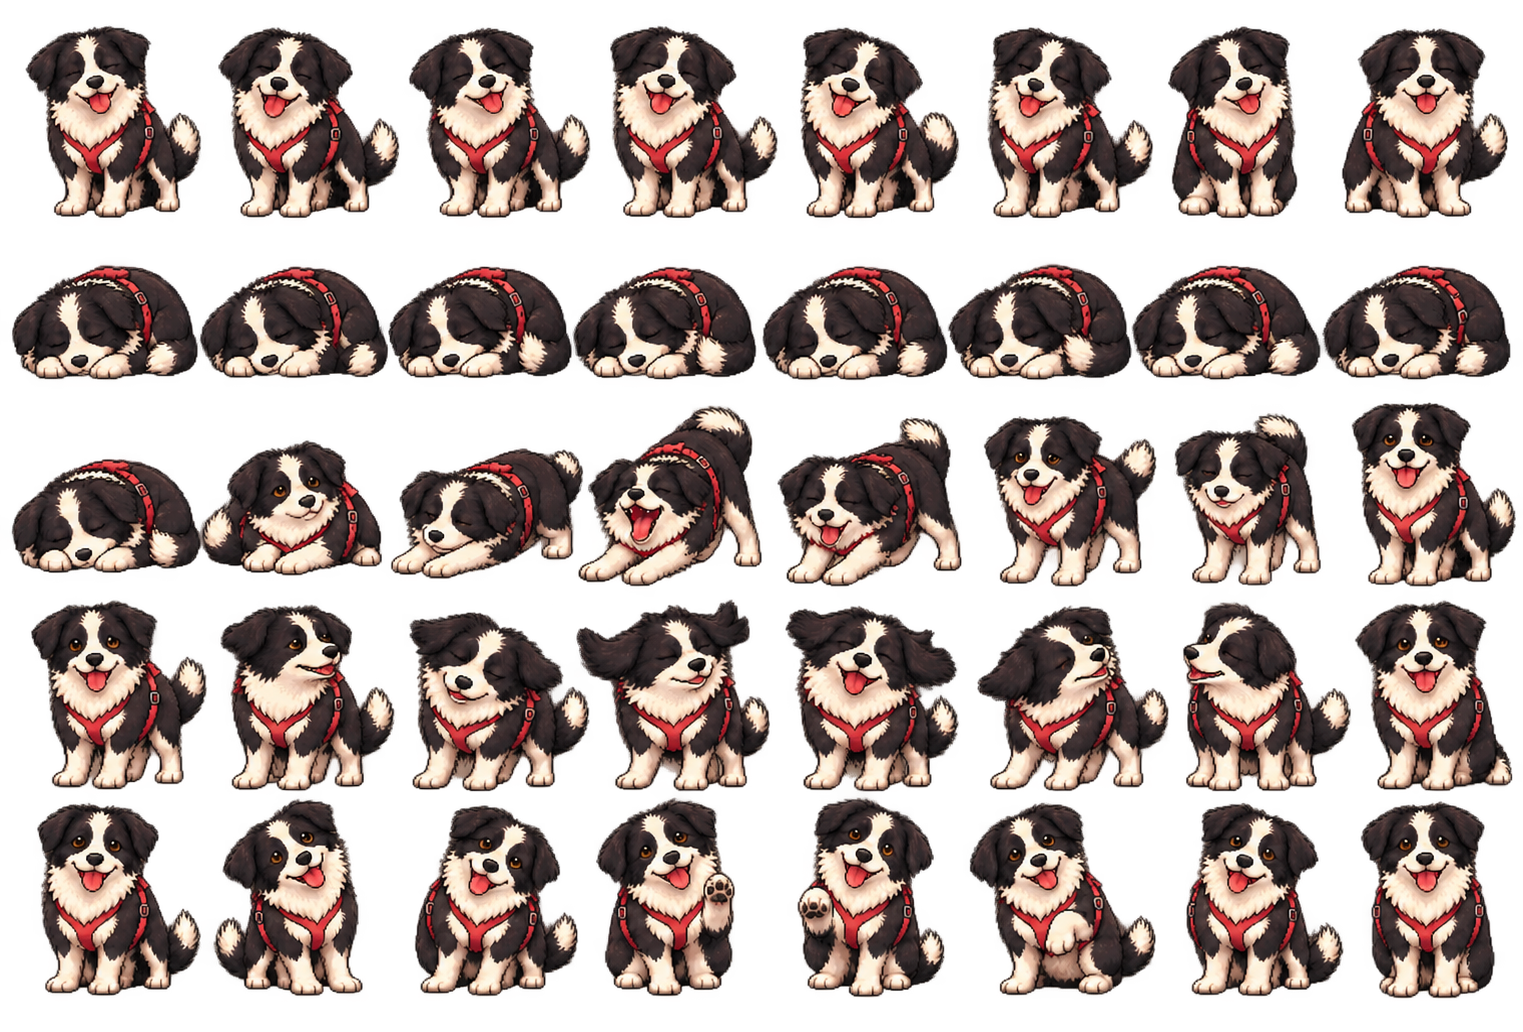
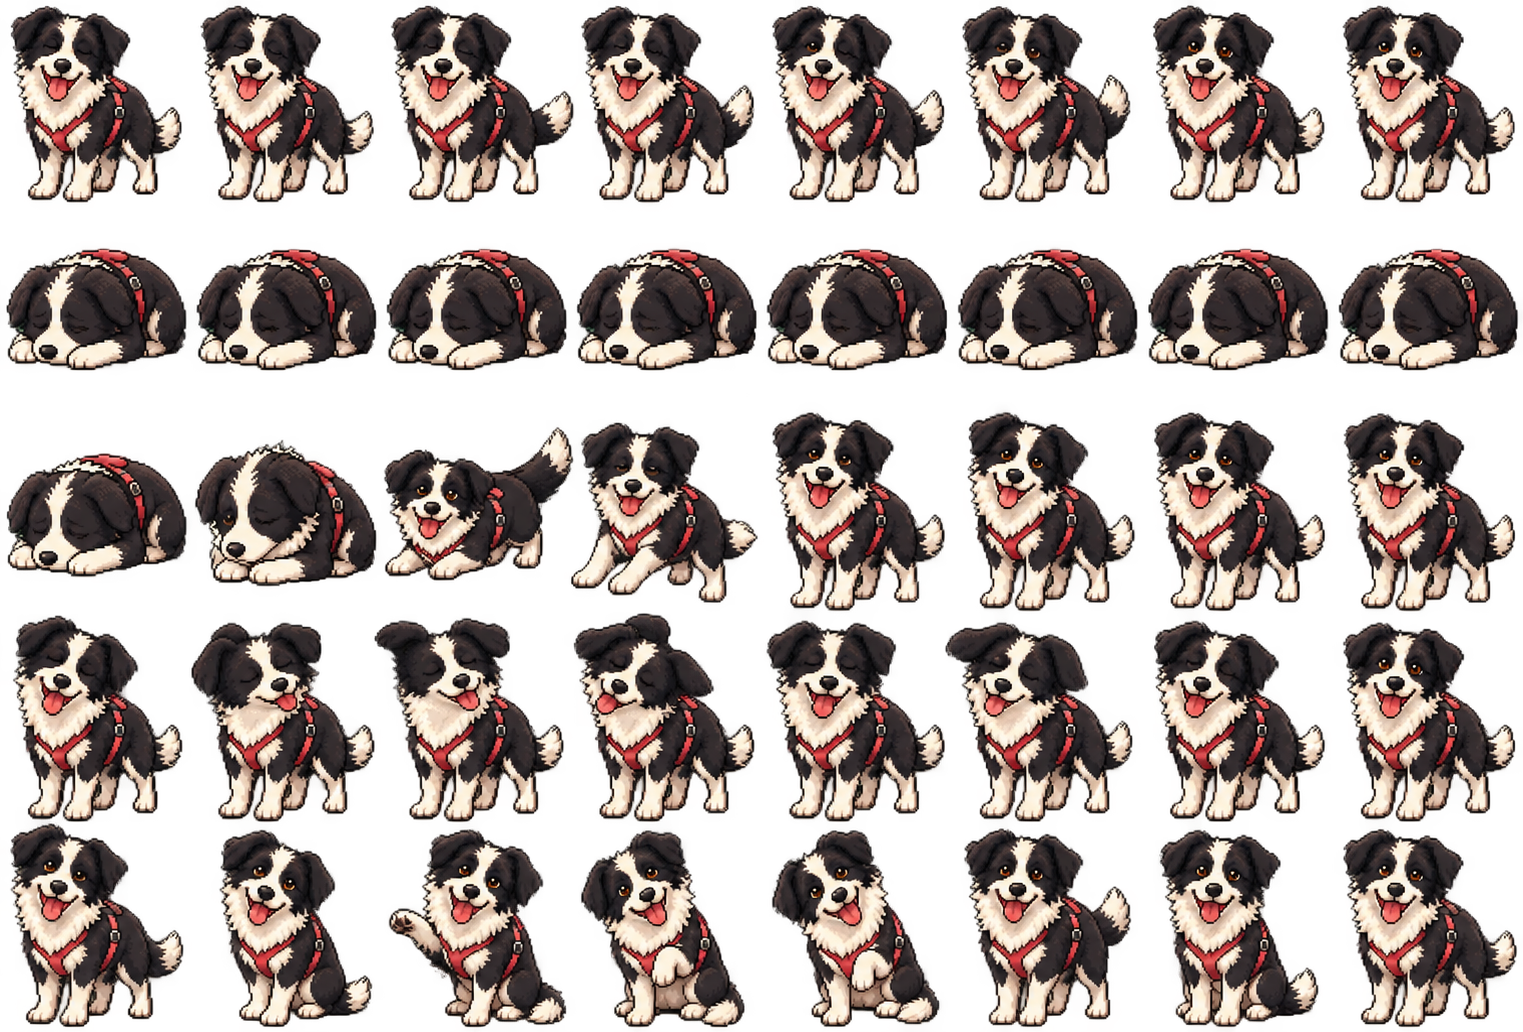
fix: restore original collie proportions and pixel style in 1.0.6 animations

diff --git a/src-tauri/src/main.rs b/src-tauri/src/main.rs
@@ -481,15 +481,21 @@ mod tests {
         for row in 11..petpack::builtin().rows {
             for col in 0..8 {
                 let mut visible = 0;
+                let mut min_y = 208;
+                let mut max_y = 0;
                 for y in 0..208 {
                     for x in 0..192 {
                         if extended.get_pixel(col * 192 + x, row * 208 + y)[3] > 40 {
                             visible += 1;
+                            min_y = min_y.min(y);
+                            max_y = max_y.max(y);
                             assert!(x >= 3 && x < 189 && y < 204, "frame {row}/{col} crosses padding");
                         }
                     }
                 }
                 assert!(visible > 5000, "frame {row}/{col} is empty");
+                // Happy petting stays standing at the original height; never shrink into a puppy.
+                if row == 11 { assert!(max_y - min_y + 1 >= 194, "petting frame {col} shrank"); }
             }
         }
     }
